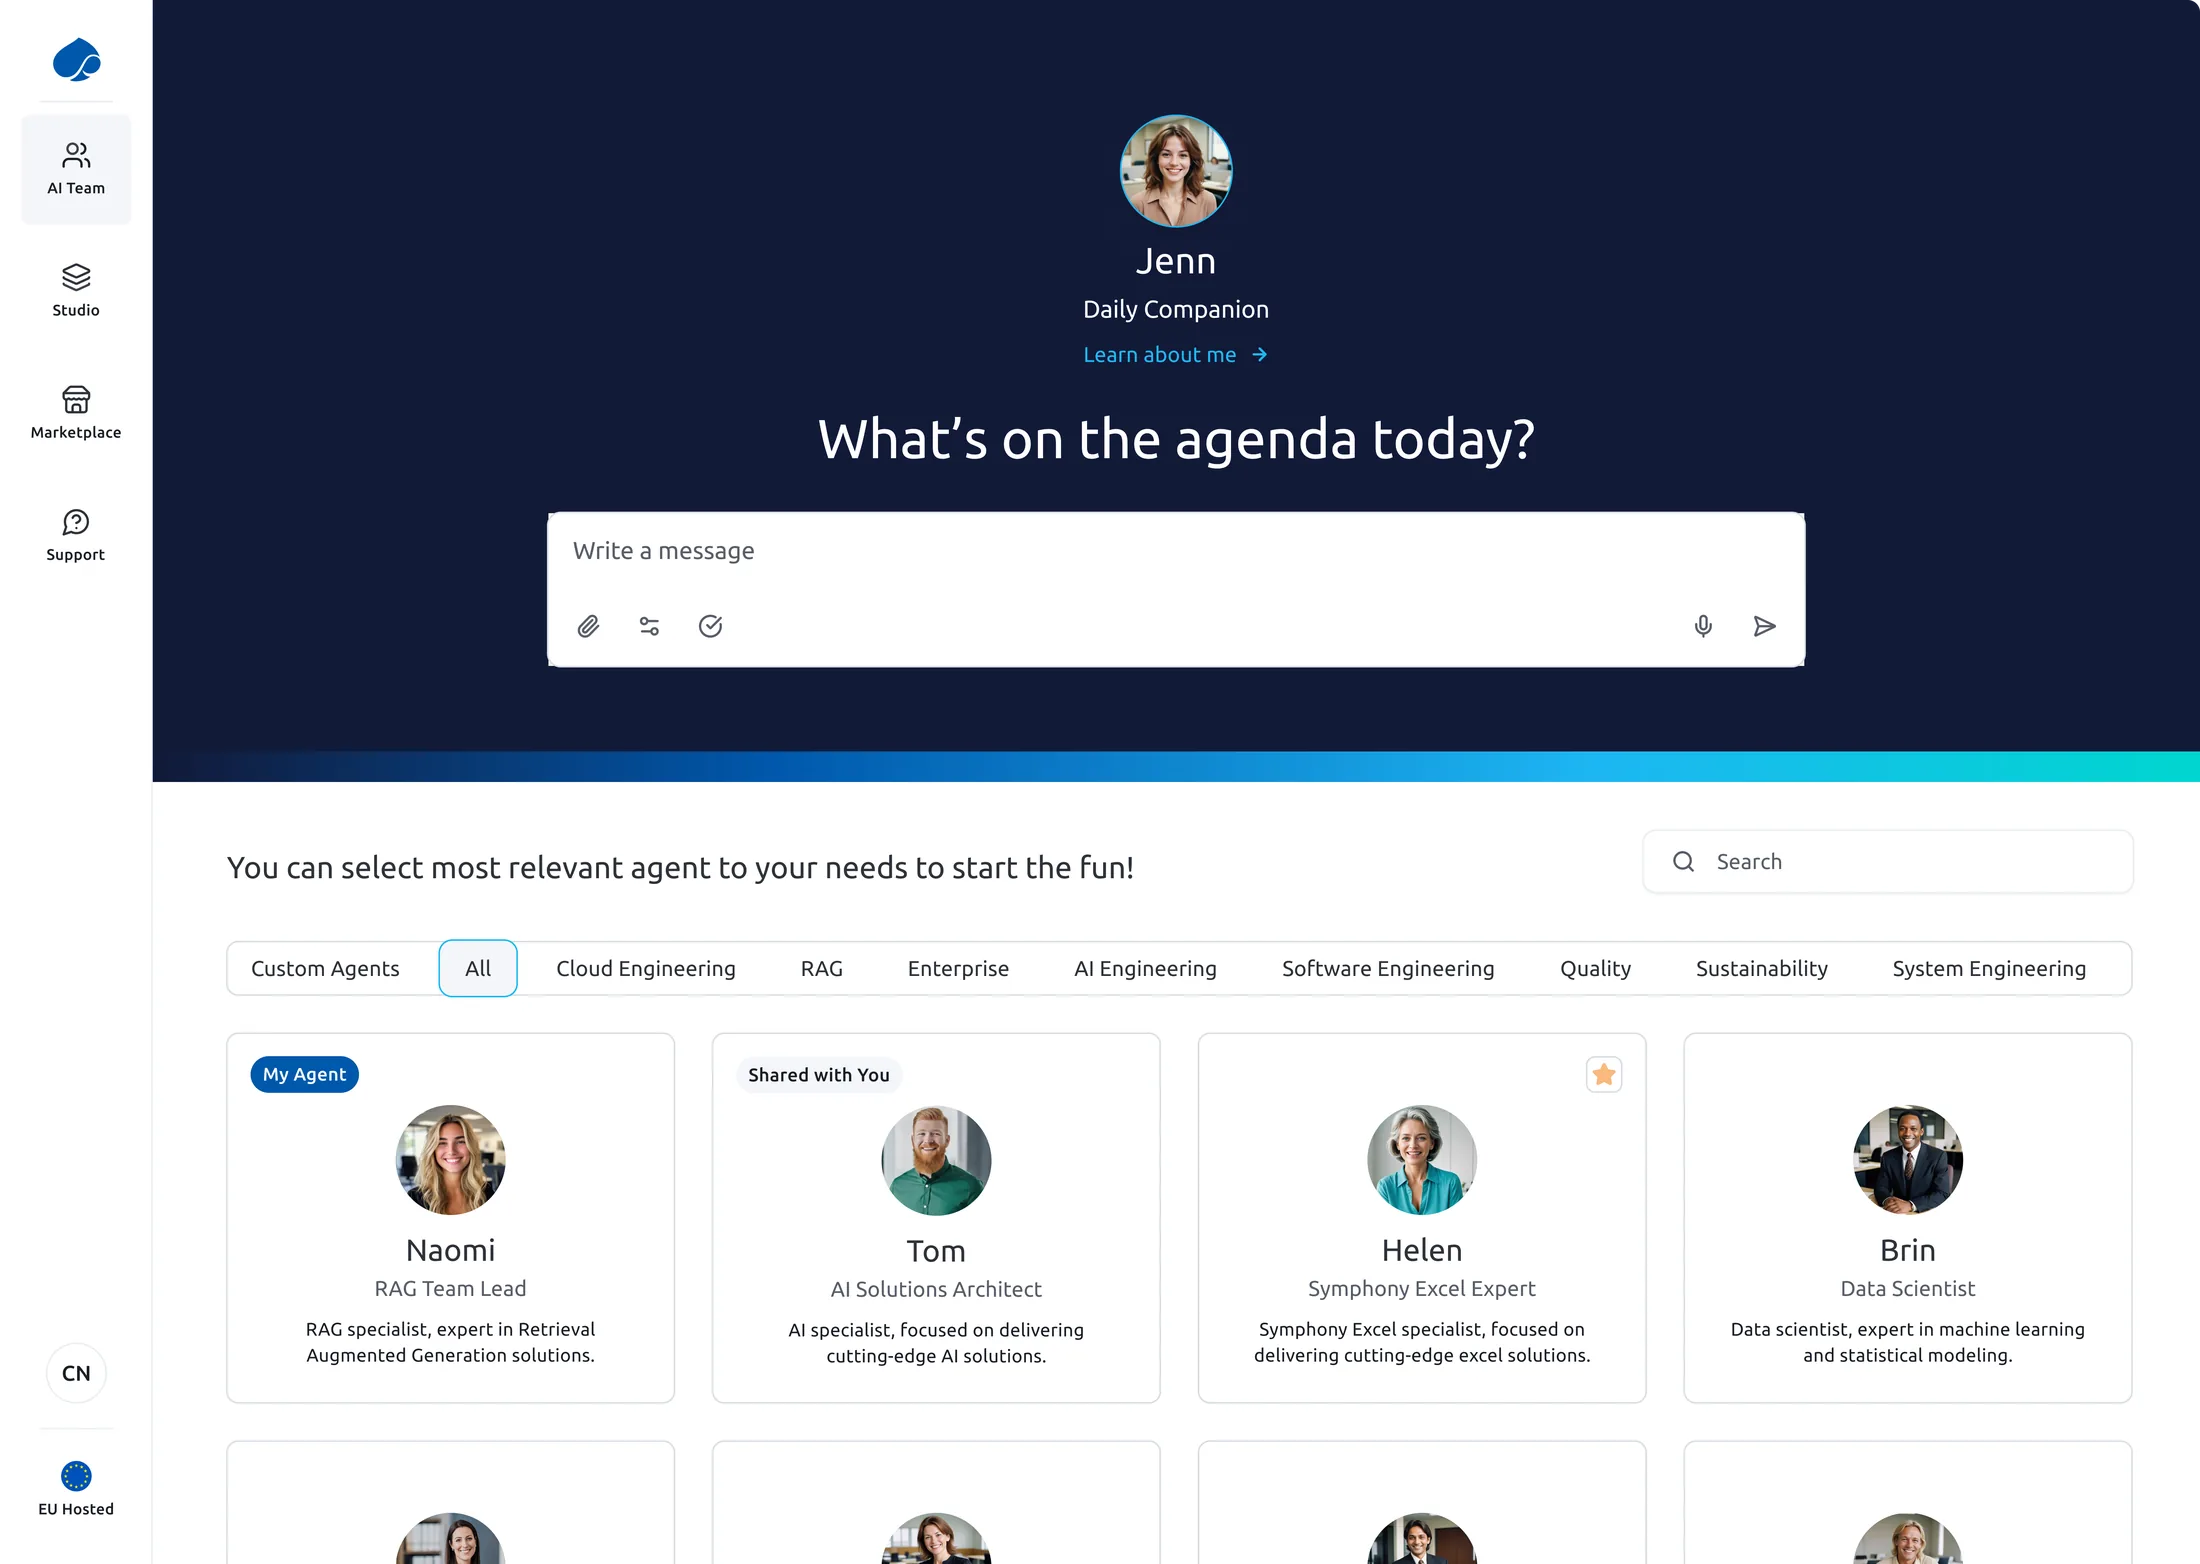
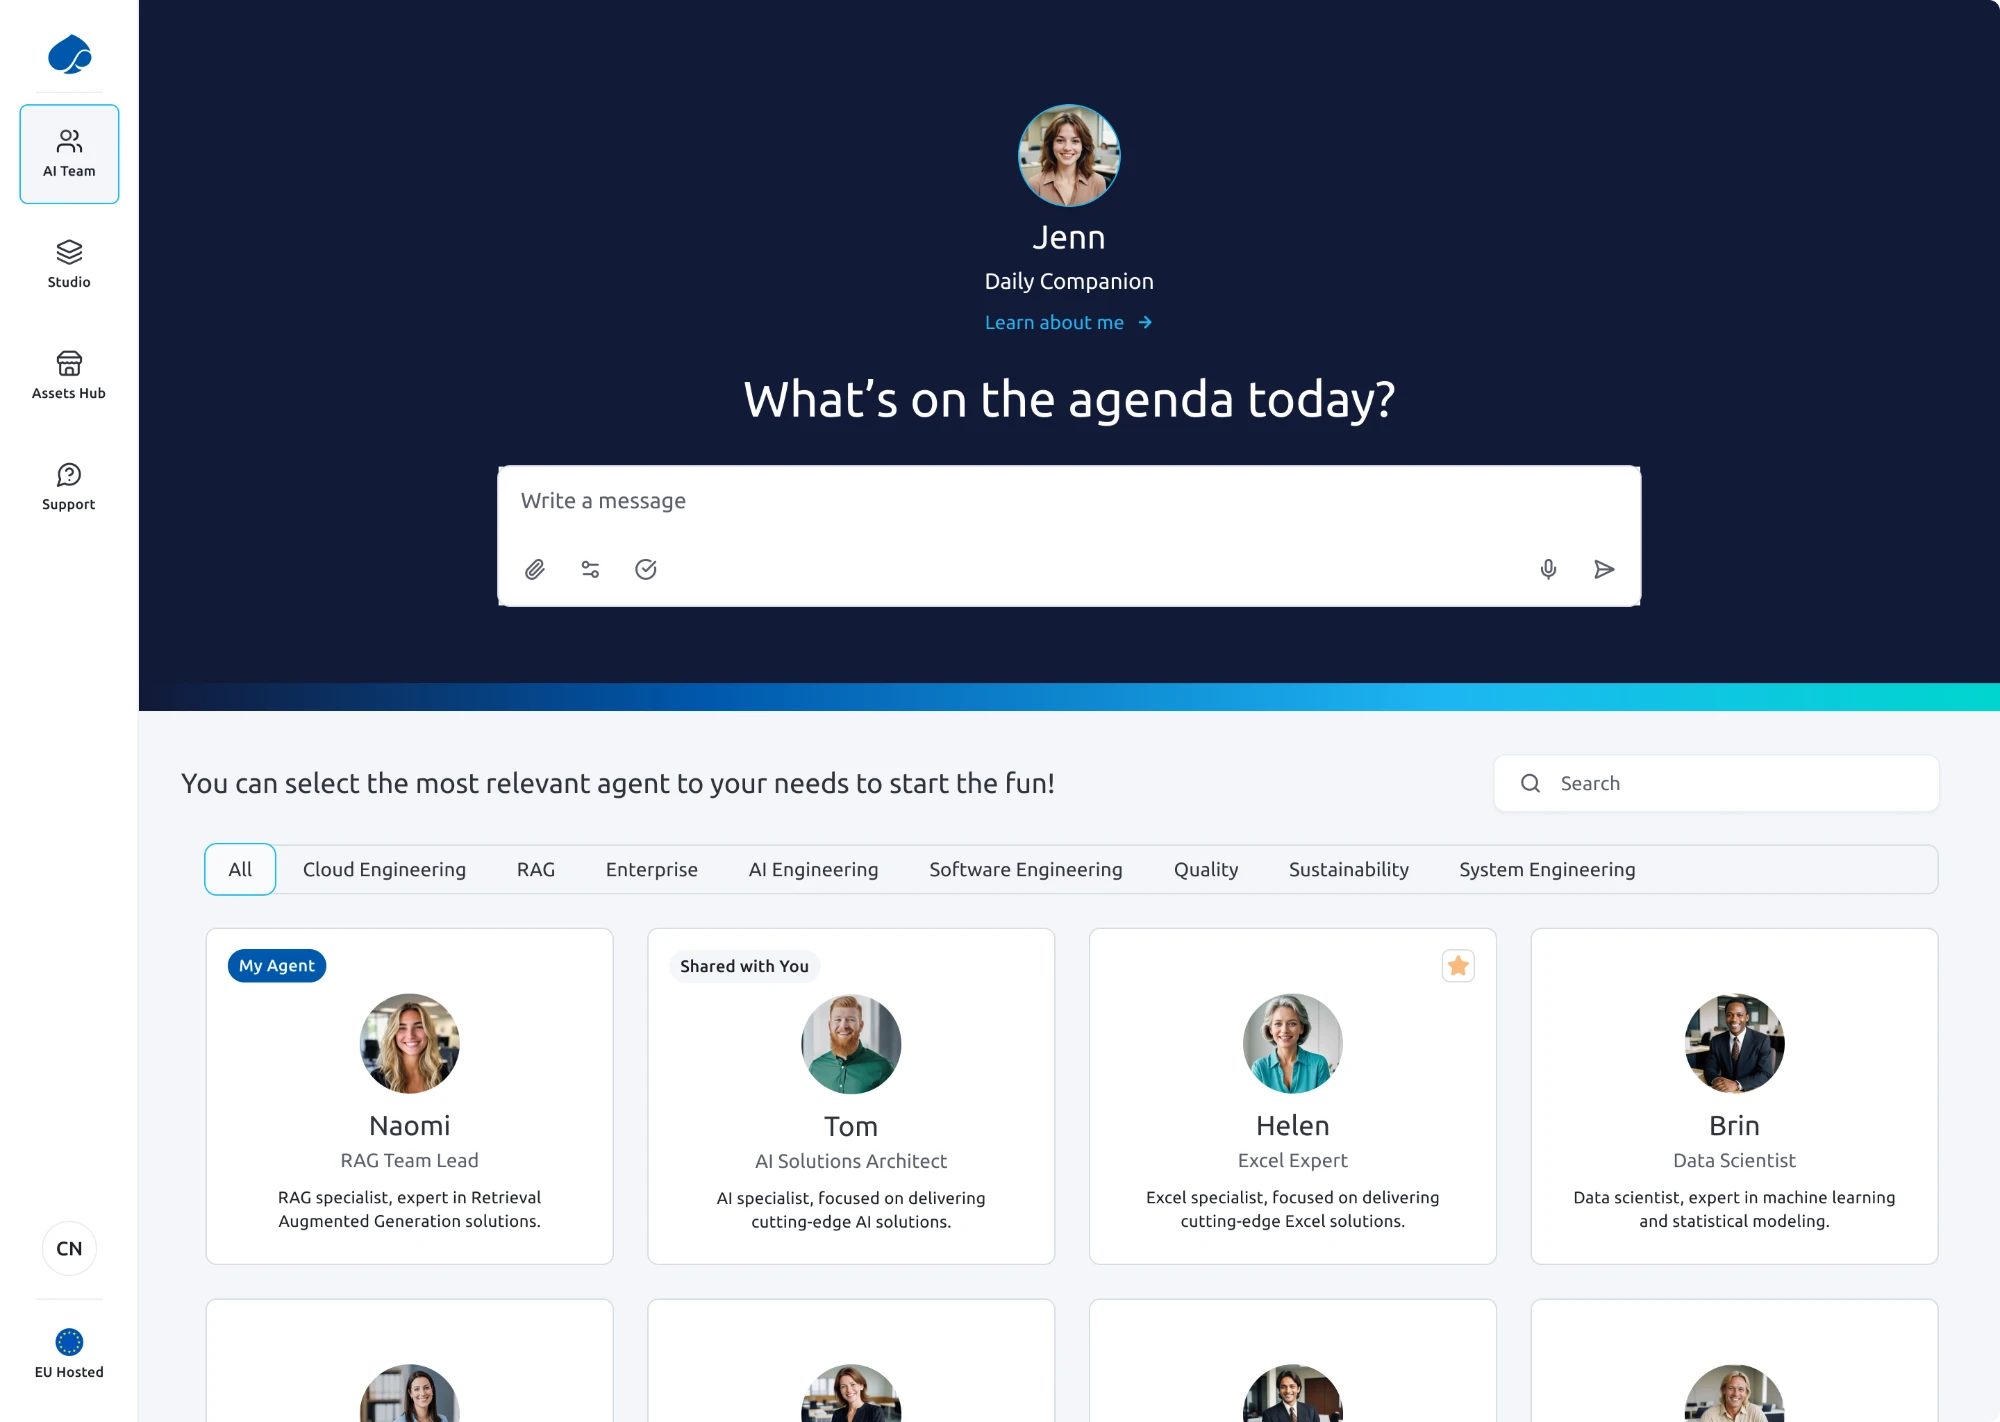
Update Generative Engine screenshots: Assets Hub, AI Team, Studio API Keys

diff --git a/src/app/case-studies/generative-engine/page.tsx b/src/app/case-studies/generative-engine/page.tsx
@@ -581,7 +581,7 @@ const STUDIO_MGMT_STEPS: readonly CarouselStep[] = [
   {
     src: "/figma/gep-studio-keys.webp",
     caption: "Keys",
-    alt: "Studio Management - API Keys tab showing Studio API Keys and User Keys tables with scope, budget, usage, expiry, status, and a context menu with Change budget / Regenerate key / Delete key.",
+    alt: "Studio Management - API Keys tab showing Studio API Keys and User Keys tables with scope, budget, usage bars, expiry date, and Active / Limit Reached status.",
   },
   {
     src: "/figma/gep-studio-agents.webp",
@@ -1092,7 +1092,7 @@ export default function GenAiEngineeringCaseStudy() {
                   loading="lazy"
                   decoding="async"
                   src="/figma/gep-marketplace.webp"
-                  alt="Assets Hub - Welcome to Generative Engine Assets Hub with category filters and a grid of shared resources (guides, tutorials, e-books, webinars) showing authors, ratings, and one-click adoption actions."
+                  alt="Assets Hub - Welcome to Generative Engine Assets Hub with category filters and a grid of shared assets (agents, tools, plugins, integrations, explainers) showing type, rating, author, last update, and Preview / Download actions."
                   className="block h-auto w-full rounded-[12px]"
                 />
               </Tilt3D>
